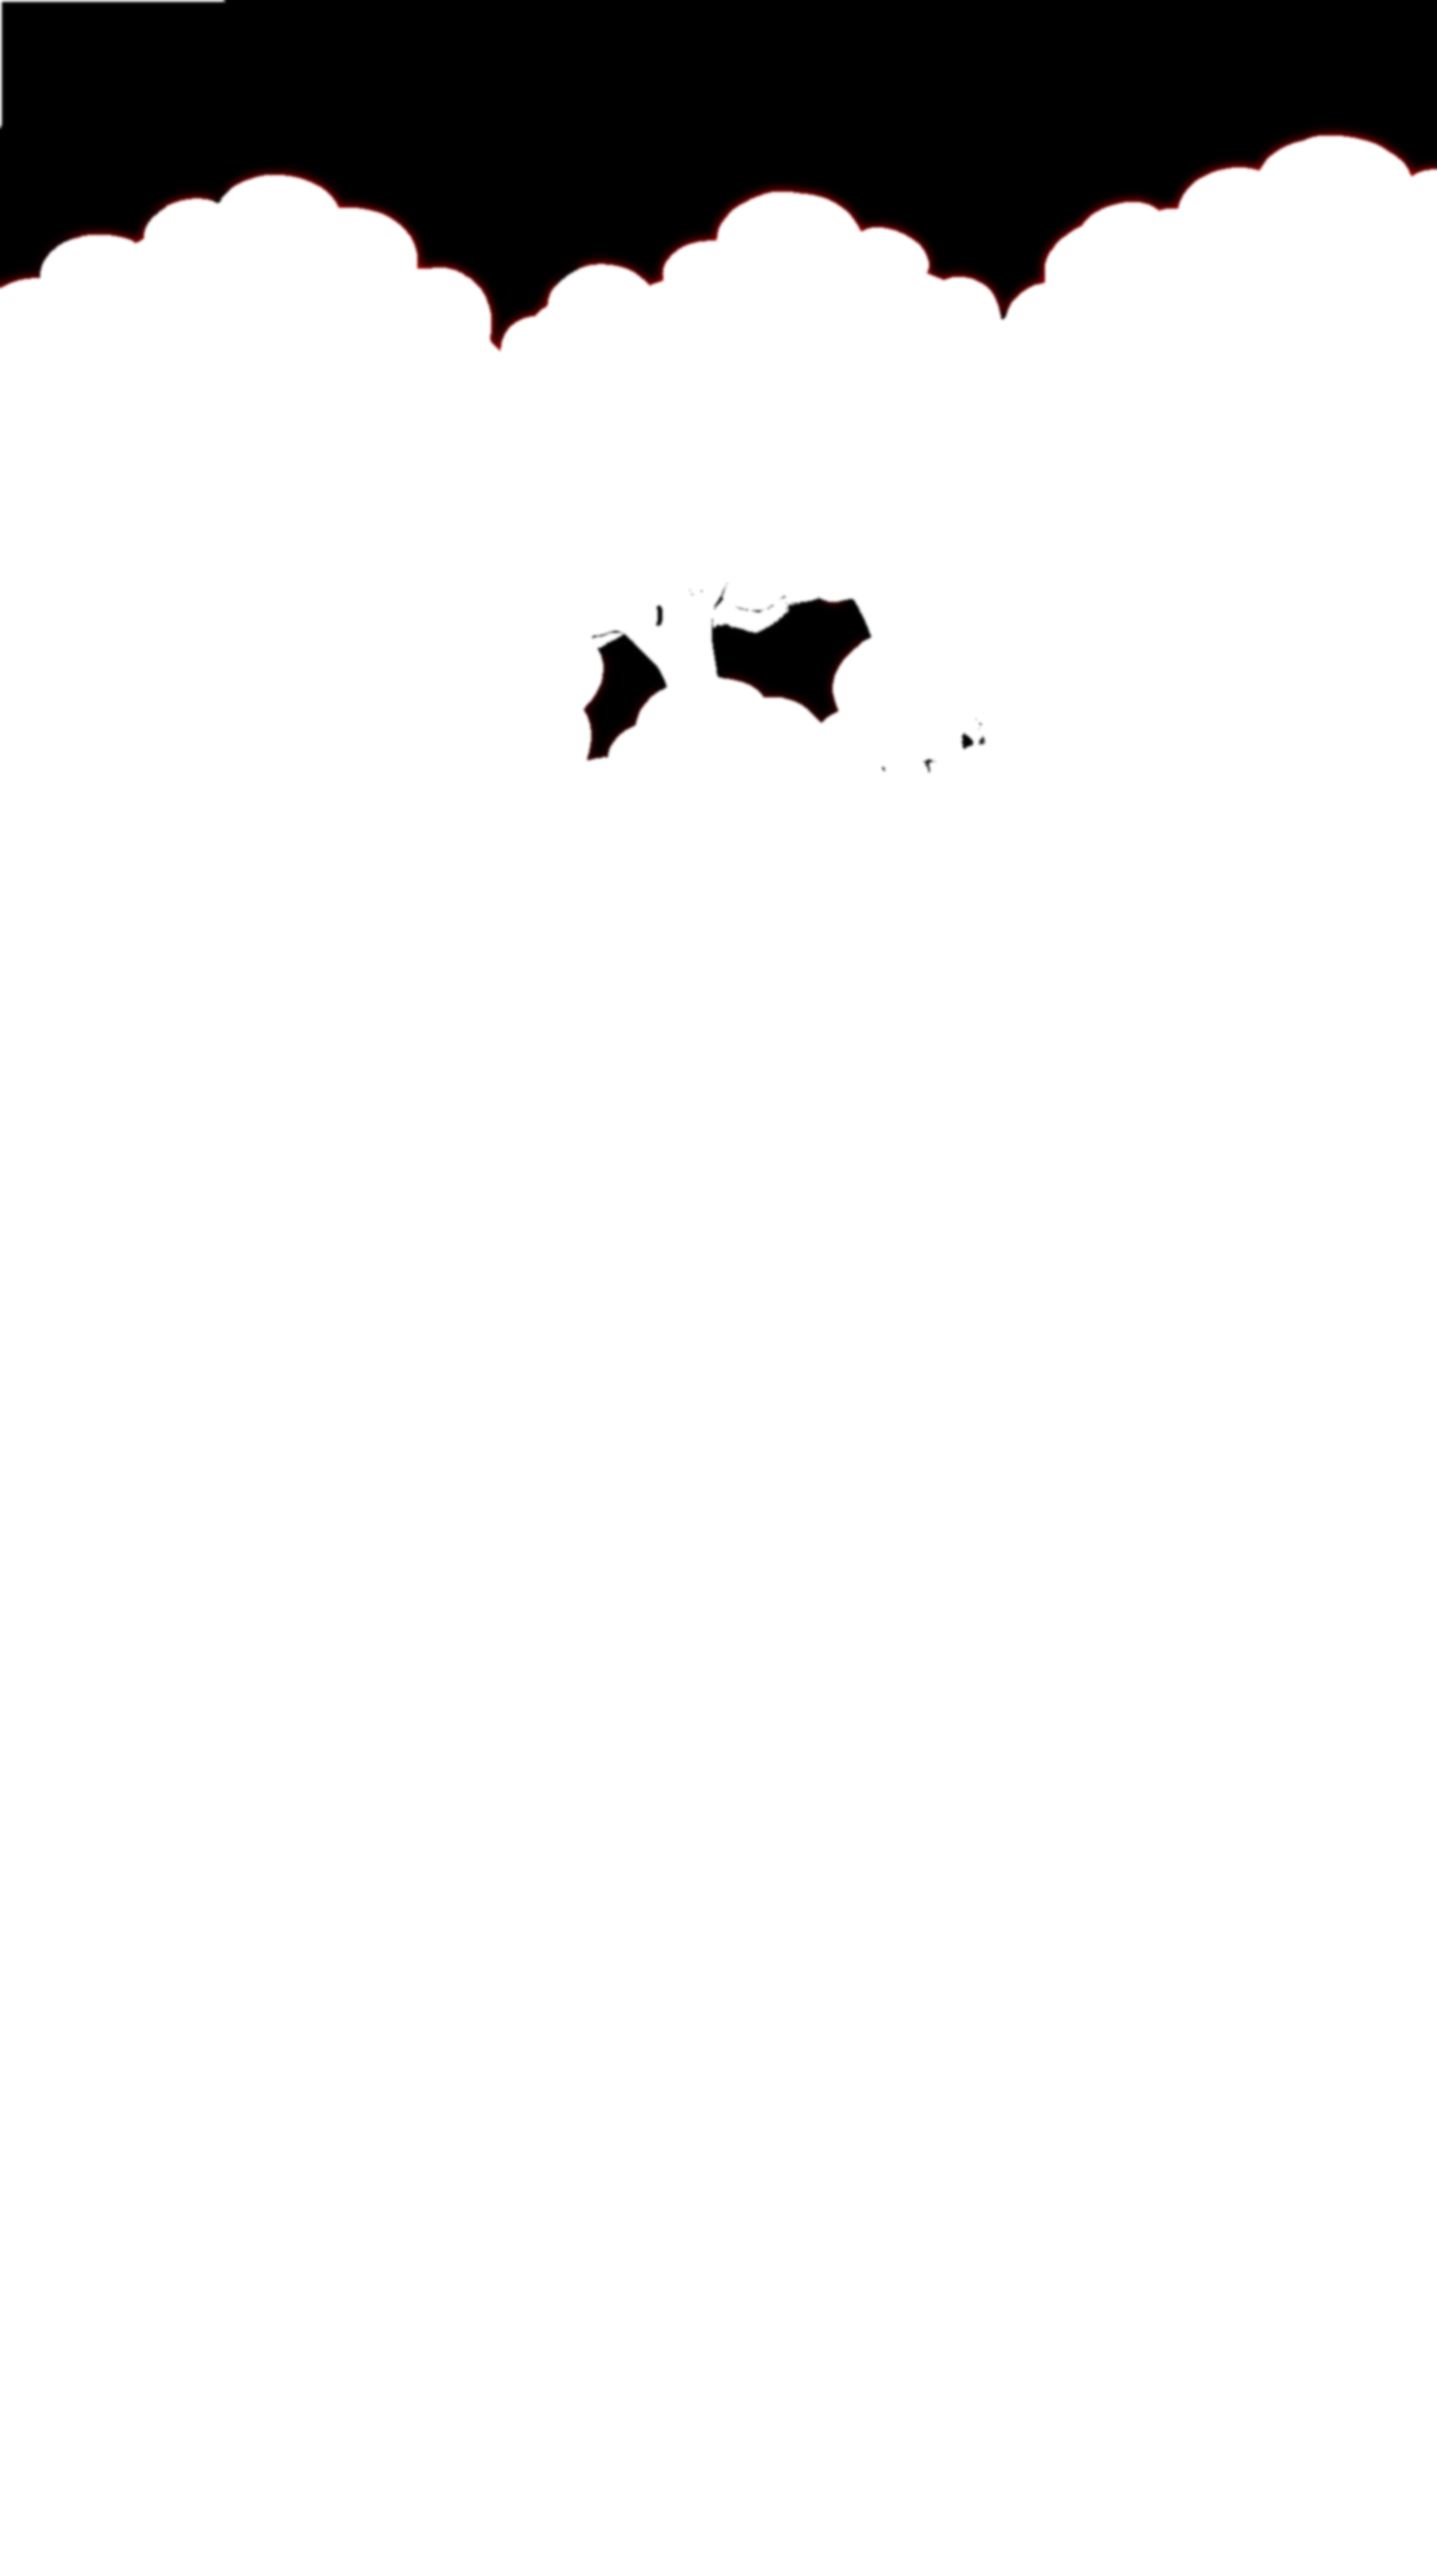
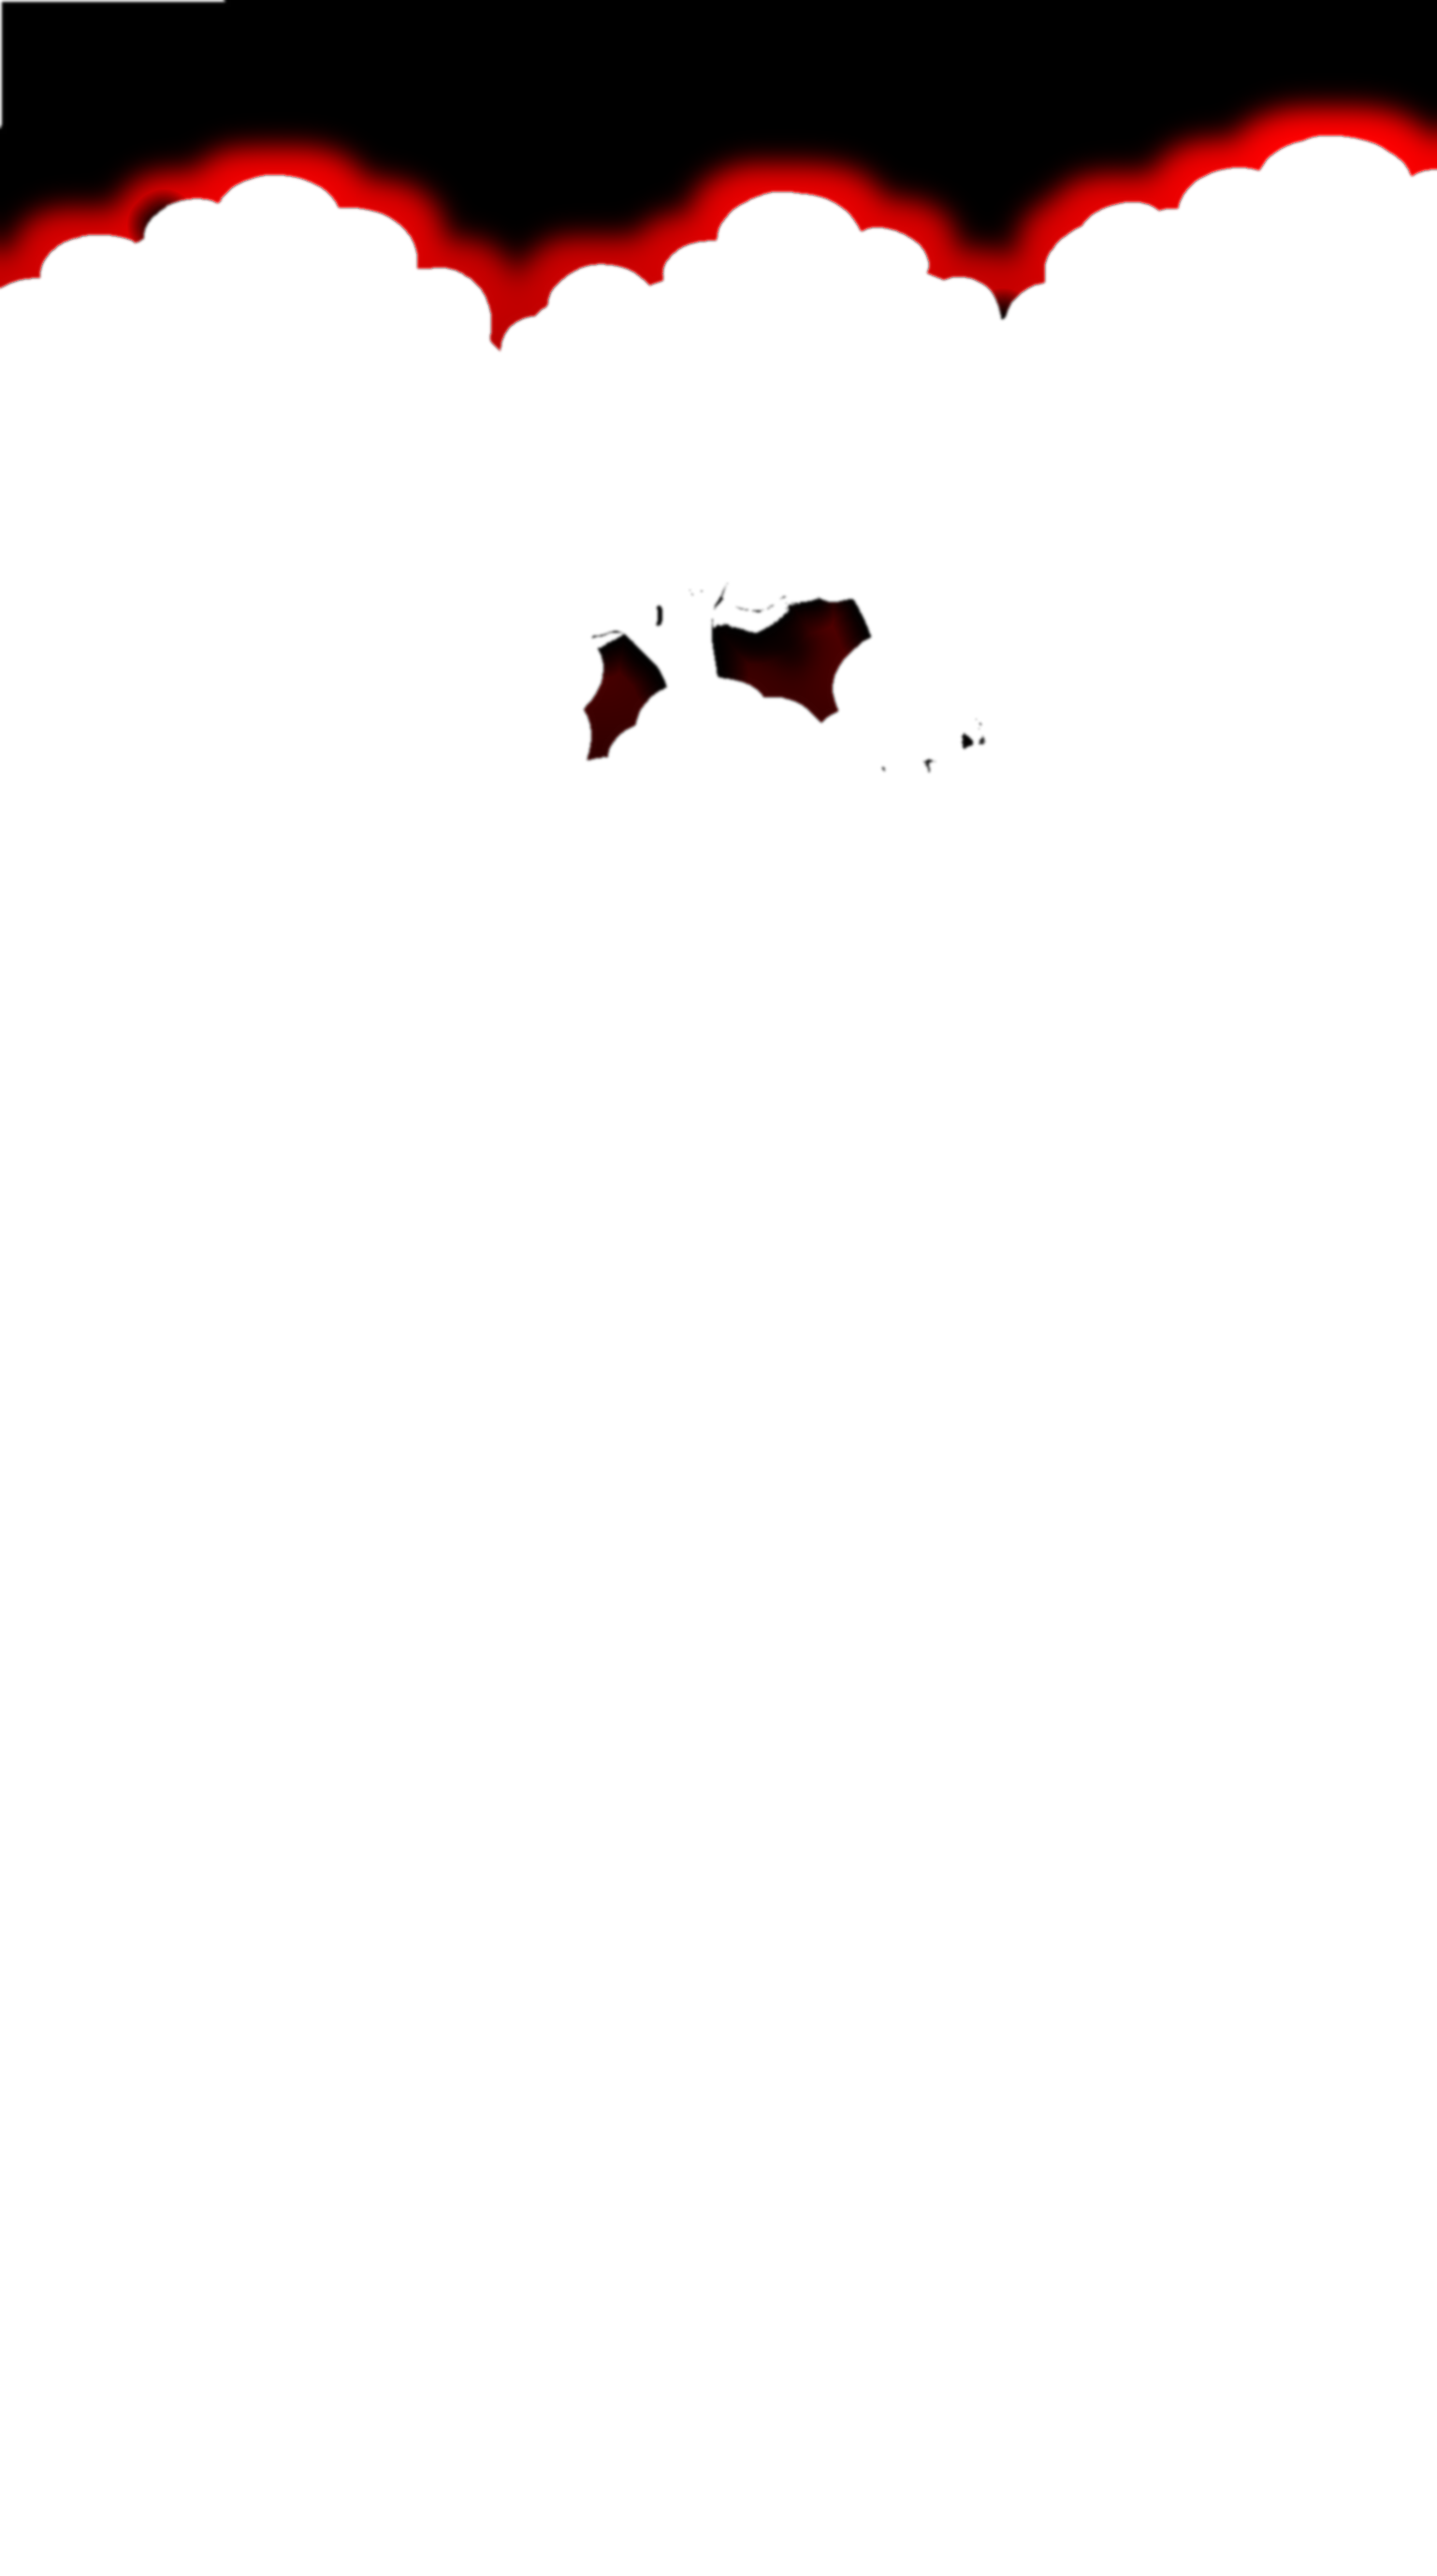
bovo5: stronger lifelike motion (trees bend from base, rustle, bush sway, grass waves + gusts, flowers rock, cleaner cloud drift)
Claude-Session: https://claude.ai/code/session_01HqXo8oXM9XTGkWGnUkjv9K

Changed region(s): [[0.0, 0.0312, 1.0, 0.125], [0.5, 0.2188, 0.5938, 0.2812], [0.4062, 0.25, 0.4688, 0.3125]]

diff --git a/bovo5/index.html b/bovo5/index.html
@@ -32,22 +32,26 @@ function size(){DPR=Math.min(2.5,devicePixelRatio||1);SH=innerHeight;SW=SH*IW/IH
 size();addEventListener('resize',size);
 const gl=cv.getContext('webgl',{alpha:false,antialias:false});
 const vs=`attribute vec2 p;varying vec2 uv;void main(){uv=vec2(p.x*.5+.5,.5-p.y*.5);gl_Position=vec4(p,0.,1.);}`;
-const fs=`precision highp float;varying vec2 uv;uniform sampler2D tB,tM,tS,tC;uniform float t,on,chf;uniform vec2 px;
+const fs=`precision highp float;varying vec2 uv;uniform sampler2D tB,tM,tS,tC,tR;uniform float t,on,chf;uniform vec2 px;
 void main(){vec4 m=texture2D(tM,uv);vec2 d=vec2(0.);
- float ph=uv.x*5.5+uv.y*2.3;
- d.x+=m.r*px.x*7.*(sin(t*.85+ph)+.35*sin(t*2.05+ph*1.7));
- d.y+=m.r*px.y*2.2*sin(t*1.05+ph*1.3);
- float w=sin(uv.x*26.-t*1.9+uv.y*34.)*.6+sin(uv.x*61.+t*2.7-uv.y*17.)*.4;
- float gust=exp(-pow(uv.x*.55+uv.y*1.1-fract(t*.055)*2.4+.5,2.)/.012);
- d.x+=m.g*px.x*(1.3+2.4*gust)*w;
- d.x+=m.b*px.x*2.2*sin(t*1.6+uv.x*47.+uv.y*29.);
- d.y+=m.b*px.y*1.2*cos(t*1.3+uv.x*39.);
+ float wind=.72+.28*sin(t*.31)+.35*max(0.,sin(t*.17+1.))*max(0.,sin(t*.9));
+ float ph=uv.x*2.4;
+ float sway=.78*sin(t*1.2+ph)+.22*sin(t*2.6+ph*2.3);
+ d.x+=m.r*px.x*24.*sway*wind;
+ d.y+=m.r*px.y*4.*sin(t*1.2+ph+1.3)*wind;
+ d+=m.r*px*1.8*vec2(sin(uv.y*150.+t*5.1+uv.x*60.),cos(uv.x*130.+t*4.4+uv.y*40.))*wind;
+ float gust=exp(-pow(uv.x*.55+uv.y*1.1-fract(t*.09)*2.4+.5,2.)/.02);
+ float blade=sin(uv.x*24.-t*2.8+uv.y*36.)*.65+sin(uv.x*67.+t*3.4-uv.y*19.)*.35;
+ d.x+=m.g*px.x*(3.2+5.*gust)*blade*wind;
+ d.y+=m.g*px.y*1.2*blade;
+ d.x+=m.b*px.x*8.5*sin(t*2.1+uv.x*41.+uv.y*23.)*wind;
+ d.y+=m.b*px.y*2.5*cos(t*1.9+uv.x*37.);
  d*=on;
  vec2 su=uv-d;vec3 c=texture2D(tB,su).rgb;
- c+=m.g*gust*vec3(.05,.07,.015)*on;
- if(uv.y<chf){vec3 sky=texture2D(tS,vec2(.5,uv.y)).rgb;vec4 c0=texture2D(tC,vec2(uv.x,uv.y/chf));
-  vec3 clean=mix(c,sky,c0.a*m.a);
-  vec4 c1=texture2D(tC,vec2(fract(uv.x-t*.0085*on),uv.y/chf));
+ c+=m.g*gust*vec3(.09,.12,.03)*on;c+=m.r*(sway*.025)*vec3(1.,1.,.6)*on;
+ if(uv.y<chf){vec3 sky=texture2D(tS,vec2(uv.x,uv.y/chf)).rgb;vec4 c0=texture2D(tC,vec2(uv.x,uv.y/chf));
+  vec3 clean=mix(c,sky,texture2D(tR,vec2(uv.x,uv.y/chf)).r*m.a);
+  vec4 c1=texture2D(tC,vec2(fract(uv.x-t*.014*on),uv.y/chf));
   c=mix(clean,c1.rgb,c1.a*m.a);}
  float r=length((uv-vec2(.02,.0))*vec2(1.,1.8));
  c+=vec3(1.,.93,.7)*exp(-r*r/.035)*(.07+.05*sin(t*.7))*on;
@@ -59,13 +63,13 @@ const ap=gl.getAttribLocation(pr,'p');gl.enableVertexAttribArray(ap);gl.vertexAt
 const U=n=>gl.getUniformLocation(pr,n);
 function tex(src,unit,name,wrapX){return new Promise(ok=>{const im=new Image();im.onload=()=>{gl.activeTexture(gl.TEXTURE0+unit);const t=gl.createTexture();gl.bindTexture(gl.TEXTURE_2D,t);
  gl.texImage2D(gl.TEXTURE_2D,0,gl.RGBA,gl.RGBA,gl.UNSIGNED_BYTE,im);gl.texParameteri(gl.TEXTURE_2D,gl.TEXTURE_MIN_FILTER,gl.LINEAR);gl.texParameteri(gl.TEXTURE_2D,gl.TEXTURE_MAG_FILTER,gl.LINEAR);
- gl.texParameteri(gl.TEXTURE_2D,gl.TEXTURE_WRAP_S,gl.CLAMP_TO_EDGE);gl.texParameteri(gl.TEXTURE_2D,gl.TEXTURE_WRAP_T,gl.CLAMP_TO_EDGE);gl.uniform1i(U(name),unit);ok()};im.src=src+'?v=3'})}
+ gl.texParameteri(gl.TEXTURE_2D,gl.TEXTURE_WRAP_S,gl.CLAMP_TO_EDGE);gl.texParameteri(gl.TEXTURE_2D,gl.TEXTURE_WRAP_T,gl.CLAMP_TO_EDGE);gl.uniform1i(U(name),unit);ok()};im.src=src+'?v=8'})}
 // twinkles on flowers / the water bowl
 const TW=[[.39,.575],[.12,.405],[.2,.42],[.58,.40],[.62,.39],[.86,.47],[.84,.655],[.66,.79],[.71,.765],[.05,.695],[.22,.84],[.74,.92],[.9,.76]].map(([x,y])=>({x,y,ph:Math.random()*6.3,sp:.8+Math.random()*.9}));
 const POL=[...Array(26)].map(()=>({x:Math.random(),y:.3+Math.random()*.7,vx:(Math.random()-.5)*.004,vy:-.004-Math.random()*.006,ph:Math.random()*6.3}));
-Promise.all([tex('bk1.png',0,'tB'),tex('masks.png',1,'tM'),tex('skyrows.png',2,'tS'),tex('clouds.png',3,'tC')]).then(()=>{
+Promise.all([tex('bk1.png',0,'tB'),tex('masks.png',1,'tM'),tex('skyclean.png',2,'tS'),tex('clouds.png',3,'tC'),tex('cloudrm.png',4,'tR')]).then(()=>{
  gl.uniform1f(U('chf'),CH/IH);let on=1,t0=performance.now(),last=t0;
- (function frame(now){const t=(now-t0)/1000,dt=Math.min(.05,(now-last)/1000);last=now;on+=((motion?1:0)-on)*Math.min(1,dt*4);
+ (function frame(now){const t=window.__t!=null?window.__t:(now-t0)/1000,dt=Math.min(.05,(now-last)/1000);last=now;on+=((motion?1:0)-on)*Math.min(1,dt*4);
   gl.viewport(0,0,cv.width,cv.height);gl.uniform1f(U('t'),t);gl.uniform1f(U('on'),on);gl.uniform2f(U('px'),1/IW,1/IH);gl.drawArrays(gl.TRIANGLE_STRIP,0,4);
   const W=fx.width,H=fx.height;fg.clearRect(0,0,W,H);fg.globalAlpha=on;
   for(const s of TW){const a=Math.max(0,Math.sin(t*s.sp+s.ph))**6;if(a<.02)continue;const x=s.x*W,y=s.y*H,r=W*.012*a;
